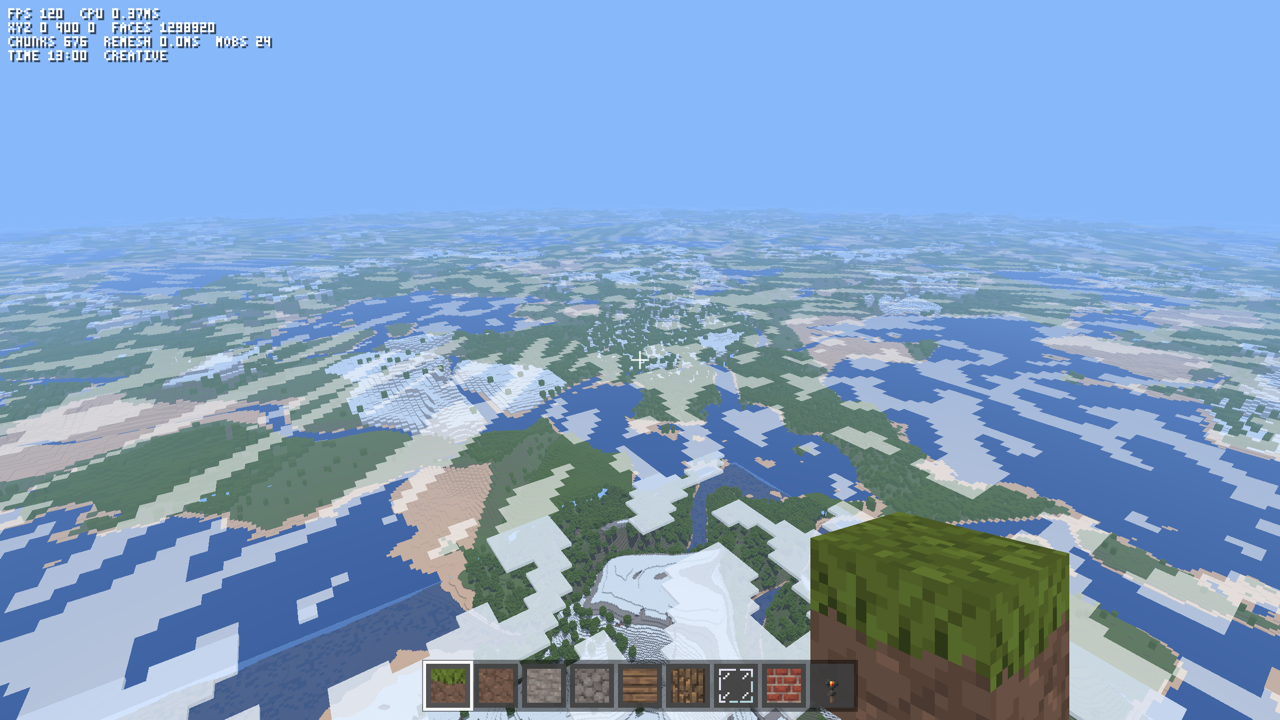
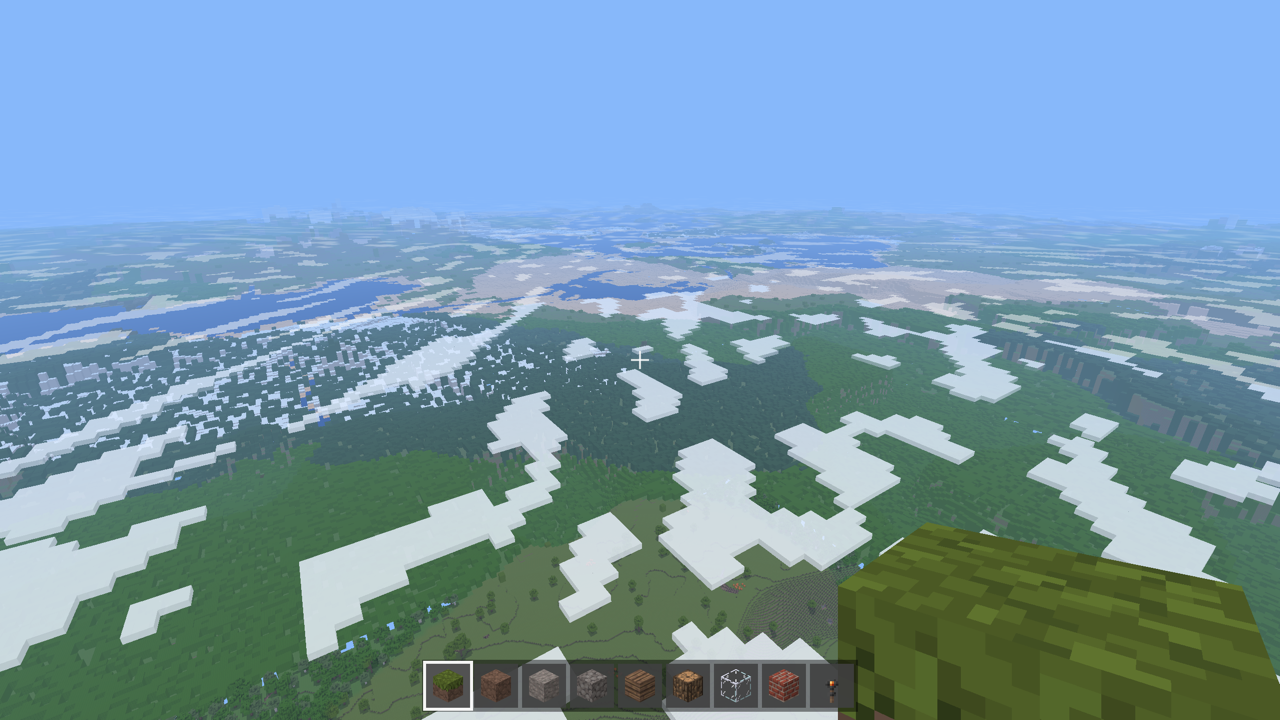
Render the README screenshots again
This commit renders the screenshots with `tools/gallery.sh` and fits the captions to the new world. The seed is the same as before, but the terrain changed since the last render. The hills are now green with oaks, not snowy with spruces.

diff --git a/README.md b/README.md
@@ -2,13 +2,13 @@
 
 A small Minecraft-like game written in Ruby. The Spinel compiler turns the Ruby into a native executable, and SDL3 GPU (Metal on macOS) draws it. All game logic is Ruby. The only C is a thin layer in `game/gfx.rb` that passes data to SDL.
 
-![Snowy hills with spruces and the sea at the default 1600-block view](screenshots/landscape.png)
+![Green hills with oaks and a river at the default 1600-block view](screenshots/landscape.png)
 
 ## Screenshots
 
 | | |
 | --- | --- |
-| ![A sunset over snowy hills with spruces](screenshots/sunset.png) | ![A zombie, a skeleton and a creeper on a stone floor](screenshots/mobs.png) |
+| ![A sunset over green hills with oaks](screenshots/sunset.png) | ![A zombie, a skeleton and a creeper on a stone floor](screenshots/mobs.png) |
 | ![A cave lit by lava](screenshots/cave.png) | ![The creative block picker](screenshots/inventory.png) |
 
 ![A chest, doors, a ladder, a lit furnace, a crafting table and a bed, with dropped items in front](screenshots/blocks.png)
